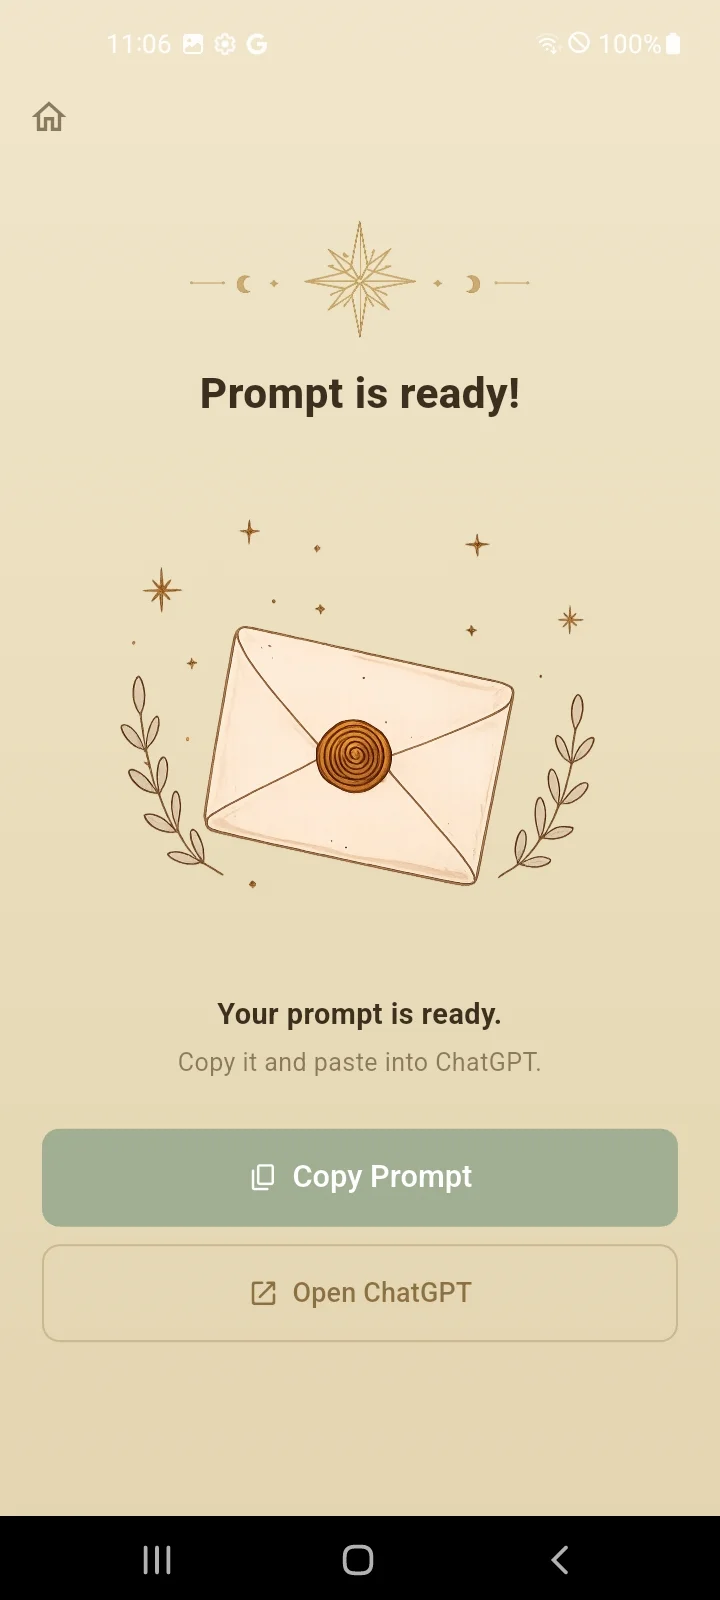
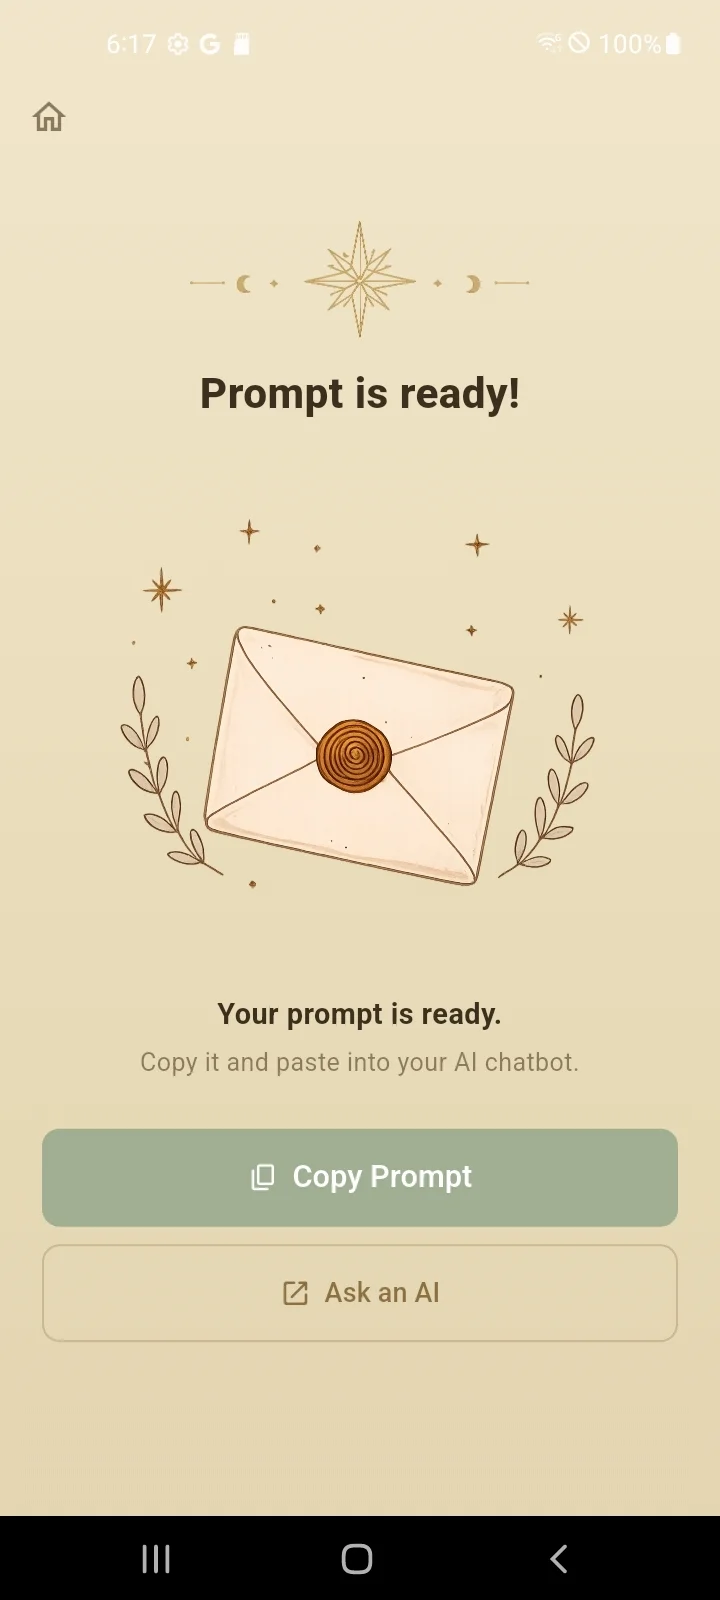
타로요 v1.0.1 반영: ChatGPT 문구→AI 중립 표현, 매뉴얼·처리방침·이미지 갱신 (4개 언어)
Google Play 상표권 신고(OpenAI/CHATGPT) 대응으로 앱이 v1.0.1로 재배포됨에 따라 홈페이지 동기화.
- 매뉴얼 8곳(4개 언어): 'ChatGPT 열기'→'AI에게 물어보기', 섹션5 제목·자동복사 안내·
  비제휴 고지 추가, 카드 확대 화면 스와이프 안내 추가, 버전 1.0.0→1.0.1
- 개인정보처리방침: "ChatGPT 등 외부 서비스"→"외부 AI 서비스"
- 랜딩 페이지: 소개문·주요기능 문구 AI 중립 표현 + 비제휴 고지 1줄, 배너 alt 수정
- 메인 페이지 앱 카드 설명 문구 수정
- 이미지: 대표 배너(태그라인 'ask an AI'), 스크린샷 008(결과 화면 'Ask an AI') WebP 교체
- sitemap lastmod 2026-09-12, CLAUDE.md 타사 AI 서비스명 표기 금지 원칙 추가

Claude-Session: https://claude.ai/code/session_01PxmmiL69nHKMJwTRCjTQR7

diff --git a/apps/tarotyo/manual/ja.html b/apps/tarotyo/manual/ja.html
@@ -94,7 +94,7 @@
         <h2>アプリについて</h2>
         <table class="info-table">
             <tr><th>アプリ名</th><td>タロヨ (TarotYo)</td></tr>
-            <tr><th>バージョン</th><td>1.0.0</td></tr>
+            <tr><th>バージョン</th><td>1.0.1</td></tr>
             <tr><th>開発</th><td>Willee Project</td></tr>
             <tr><th>対応プラットフォーム</th><td>Android</td></tr>
         </table>
@@ -105,9 +105,9 @@
 <section>
     <div class="container">
         <h2>タロヨはどんなアプリですか?</h2>
-        <p>タロヨは、タロットカード78枚を引き、その結果を ChatGPT のような AI が解釈できる<strong>プロンプト(質問文)</strong>に仕上げてくれるツールです。</p>
+        <p>タロヨは、タロットカード78枚を引き、その結果を AI チャットが解釈できる<strong>プロンプト(質問文)</strong>に仕上げてくれるツールです。</p>
         <ul>
-            <li>アプリが直接カードを解釈するわけではありません。解釈は ChatGPT(または他の AI)が手伝います。</li>
+            <li>アプリが直接カードを解釈するわけではありません。解釈はお使いの AI チャットが手伝います。</li>
             <li>決まった答えを示すものではなく、<strong>楽しみと心の安らぎ、考えの整理</strong>のためのコンテンツです。</li>
         </ul>
     </div>
@@ -167,7 +167,7 @@
         <p>完成したプロンプトを受け取ります。</p>
         <ul>
             <li><strong>プロンプトをコピー</strong>: プロンプトをクリップボードにコピーします。</li>
-            <li><strong>ChatGPT を開く</strong>: ChatGPT をブラウザまたはアプリで開きます。</li>
+            <li><strong>AI に聞いてみる</strong>: お好みの AI サービス(ChatGPT・Gemini・Claude から選択)をブラウザまたはアプリで開きます。</li>
         </ul>
         <div class="tip-box">
             <p>画面左上のホームボタンを押すと、いつでも最初に戻ることができます。</p>
@@ -177,14 +177,15 @@
 
 <section>
     <div class="container">
-        <h2>ChatGPT で解釈を受ける</h2>
+        <h2>AI チャットで解釈を受ける</h2>
         <ol>
-            <li>結果画面で<strong>プロンプトをコピー</strong>を押します。</li>
-            <li><strong>ChatGPT を開く</strong>で ChatGPT を開きます。(ログインが必要な場合があります。)</li>
+            <li>結果画面が開くと、プロンプトが自動的にクリップボードにコピーされます。(もう一度コピーするには<strong>プロンプトをコピー</strong>を押します。)</li>
+            <li><strong>AI に聞いてみる</strong>を押して、お好みの AI サービスを開きます。(ログインが必要な場合があります。)</li>
             <li>入力欄に貼り付けて送信すると、カードの解釈を受け取ることができます。</li>
         </ol>
         <div class="tip-box">
-            <p>タロヨはプロンプトを ChatGPT へ自動送信しません。ご自身で貼り付けてご利用ください。</p>
+            <p>タロヨはプロンプトを AI サービスへ自動送信しません。ご自身で貼り付けてご利用ください。</p>
+            <p style="margin-top:8px;">タロヨは特定の AI サービスと提携・後援・承認関係のない独立したアプリであり、記載のサービス名は各所有者の商標です。</p>
         </div>
     </div>
 </section>
@@ -197,7 +198,7 @@
             <li><strong>大アルカナ</strong> 22枚</li>
             <li><strong>小アルカナ</strong> 56枚 (ワンド・カップ・ソード・ペンタクルの4種)</li>
         </ul>
-        <p>カードを押すと大きく表示できます。</p>
+        <p>カードを押すと大きく表示できます。拡大表示中に左右にスワイプすると前後のカードに移動し、画面を押すと閉じます。</p>
     </div>
 </section>
 

diff --git a/apps/tarotyo/manual/ko.html b/apps/tarotyo/manual/ko.html
@@ -94,7 +94,7 @@
         <h2>앱 정보</h2>
         <table class="info-table">
             <tr><th>앱 이름</th><td>타로요 (TarotYo)</td></tr>
-            <tr><th>버전</th><td>1.0.0</td></tr>
+            <tr><th>버전</th><td>1.0.1</td></tr>
             <tr><th>개발</th><td>Willee Project</td></tr>
             <tr><th>지원 플랫폼</th><td>Android</td></tr>
         </table>
@@ -105,9 +105,9 @@
 <section>
     <div class="container">
         <h2>타로요는 어떤 앱인가요?</h2>
-        <p>타로요는 타로 카드 78장을 뽑아, 그 결과를 ChatGPT 같은 AI가 해석할 수 있는 <strong>프롬프트(질문 문장)</strong>로 만들어 주는 도구입니다.</p>
+        <p>타로요는 타로 카드 78장을 뽑아, 그 결과를 AI 챗봇이 해석할 수 있는 <strong>프롬프트(질문 문장)</strong>로 만들어 주는 도구입니다.</p>
         <ul>
-            <li>앱이 직접 카드를 해석하지 않습니다. 해석은 ChatGPT(또는 다른 AI)가 도와줍니다.</li>
+            <li>앱이 직접 카드를 해석하지 않습니다. 해석은 사용자가 선택한 AI 챗봇이 도와줍니다.</li>
             <li>정해진 답을 알려주는 것이 아니라 <strong>재미와 심리적 위안, 생각 정리</strong>를 위한 콘텐츠입니다.</li>
         </ul>
     </div>
@@ -167,7 +167,7 @@
         <p>완성된 프롬프트를 받습니다.</p>
         <ul>
             <li><strong>프롬프트 복사</strong>: 프롬프트를 클립보드에 복사합니다.</li>
-            <li><strong>ChatGPT 열기</strong>: ChatGPT를 브라우저 또는 앱으로 엽니다.</li>
+            <li><strong>AI에게 물어보기</strong>: 원하는 AI 서비스(ChatGPT, Gemini, Claude 중 선택)를 브라우저 또는 앱으로 엽니다.</li>
         </ul>
         <div class="tip-box">
             <p>화면 좌측 상단의 홈 버튼을 누르면 언제든 처음으로 돌아갈 수 있습니다.</p>
@@ -177,14 +177,15 @@
 
 <section>
     <div class="container">
-        <h2>ChatGPT에서 해석 받기</h2>
+        <h2>AI 챗봇에서 해석 받기</h2>
         <ol>
-            <li>결과 화면에서 <strong>프롬프트 복사</strong>를 누릅니다.</li>
-            <li><strong>ChatGPT 열기</strong>로 ChatGPT를 엽니다. (로그인이 필요할 수 있습니다.)</li>
+            <li>결과 화면에 들어오면 프롬프트가 자동으로 클립보드에 복사됩니다. (다시 복사하려면 <strong>프롬프트 복사</strong>를 누르세요.)</li>
+            <li><strong>AI에게 물어보기</strong>를 눌러 원하는 AI 서비스를 엽니다. (로그인이 필요할 수 있습니다.)</li>
             <li>입력창에 붙여넣기 한 뒤 전송하면 카드 해석을 받을 수 있습니다.</li>
         </ol>
         <div class="tip-box">
-            <p>타로요는 프롬프트를 ChatGPT로 자동 전송하지 않습니다. 직접 붙여넣어 사용하세요.</p>
+            <p>타로요는 프롬프트를 AI 서비스로 자동 전송하지 않습니다. 직접 붙여넣어 사용하세요.</p>
+            <p style="margin-top:8px;">타로요는 특정 AI 서비스와 제휴·후원·승인 관계가 없는 독립 앱이며, 언급된 서비스명은 각 소유자의 상표입니다.</p>
         </div>
     </div>
 </section>
@@ -197,7 +198,7 @@
             <li><strong>메이저 아르카나</strong> 22장</li>
             <li><strong>마이너 아르카나</strong> 56장 (지팡이·컵·검·펜타클 4종)</li>
         </ul>
-        <p>카드를 누르면 크게 볼 수 있습니다.</p>
+        <p>카드를 누르면 크게 볼 수 있습니다. 크게 보는 화면에서 좌우로 스와이프하면 앞뒤 카드로 바로 넘어가고, 화면을 누르면 닫힙니다.</p>
     </div>
 </section>
 

diff --git a/apps/tarotyo/manual/en.html b/apps/tarotyo/manual/en.html
@@ -94,7 +94,7 @@
         <h2>App Info</h2>
         <table class="info-table">
             <tr><th>App Name</th><td>TarotYo</td></tr>
-            <tr><th>Version</th><td>1.0.0</td></tr>
+            <tr><th>Version</th><td>1.0.1</td></tr>
             <tr><th>Developer</th><td>Willee Project</td></tr>
             <tr><th>Platforms</th><td>Android</td></tr>
         </table>
@@ -105,9 +105,9 @@
 <section>
     <div class="container">
         <h2>What is TarotYo?</h2>
-        <p>TarotYo is a tool that draws from the 78 tarot cards and turns the result into a <strong>prompt (a question to ask)</strong> that an AI such as ChatGPT can interpret.</p>
+        <p>TarotYo is a tool that draws from the 78 tarot cards and turns the result into a <strong>prompt (a question to ask)</strong> that an AI chatbot can interpret.</p>
         <ul>
-            <li>The app does not interpret the cards itself. ChatGPT (or another AI) helps with the interpretation.</li>
+            <li>The app does not interpret the cards itself. The AI chatbot of your choice helps with the interpretation.</li>
             <li>It is content meant for <strong>fun, emotional comfort, and organizing your thoughts</strong> — not for giving fixed answers.</li>
         </ul>
     </div>
@@ -167,7 +167,7 @@
         <p>You receive the completed prompt.</p>
         <ul>
             <li><strong>Copy Prompt</strong>: Copies the prompt to the clipboard.</li>
-            <li><strong>Open ChatGPT</strong>: Opens ChatGPT in your browser or app.</li>
+            <li><strong>Ask an AI</strong>: Lets you choose an AI service (ChatGPT, Gemini, or Claude) and opens it in your browser or app.</li>
         </ul>
         <div class="tip-box">
             <p>Tap the home button at the top left of the screen to return to the start at any time.</p>
@@ -177,14 +177,15 @@
 
 <section>
     <div class="container">
-        <h2>Getting an Interpretation in ChatGPT</h2>
+        <h2>Getting an Interpretation from an AI Chatbot</h2>
         <ol>
-            <li>On the result screen, tap <strong>Copy Prompt</strong>.</li>
-            <li>Open ChatGPT with <strong>Open ChatGPT</strong>. (You may need to sign in.)</li>
+            <li>When the result screen opens, the prompt is copied to your clipboard automatically. (Tap <strong>Copy Prompt</strong> to copy it again.)</li>
+            <li>Tap <strong>Ask an AI</strong> and choose the AI service you prefer. (You may need to sign in.)</li>
             <li>Paste it into the input field and send it to receive the card interpretation.</li>
         </ol>
         <div class="tip-box">
-            <p>TarotYo does not automatically send the prompt to ChatGPT. Please paste it in yourself.</p>
+            <p>TarotYo does not automatically send the prompt to any AI service. Please paste it in yourself.</p>
+            <p style="margin-top:8px;">TarotYo is an independent app. It is not affiliated with, sponsored by, or endorsed by any AI service provider. Service names mentioned are trademarks of their respective owners.</p>
         </div>
     </div>
 </section>
@@ -197,7 +198,7 @@
             <li><strong>Major Arcana</strong>, 22 cards</li>
             <li><strong>Minor Arcana</strong>, 56 cards (four suits: Wands, Cups, Swords, and Pentacles)</li>
         </ul>
-        <p>Tap a card to see it enlarged.</p>
+        <p>Tap a card to see it enlarged. In the enlarged view, swipe left or right to move to the previous or next card, and tap to close.</p>
     </div>
 </section>
 

diff --git a/apps/tarotyo/manual/zh.html b/apps/tarotyo/manual/zh.html
@@ -94,7 +94,7 @@
         <h2>关于应用</h2>
         <table class="info-table">
             <tr><th>应用名称</th><td>塔罗哟 (TarotYo)</td></tr>
-            <tr><th>版本</th><td>1.0.0</td></tr>
+            <tr><th>版本</th><td>1.0.1</td></tr>
             <tr><th>开发</th><td>Willee Project</td></tr>
             <tr><th>支持平台</th><td>Android</td></tr>
         </table>
@@ -105,9 +105,9 @@
 <section>
     <div class="container">
         <h2>塔罗哟是一款什么样的应用？</h2>
-        <p>塔罗哟会为您抽取 78 张塔罗牌，并将抽牌结果整理成可供 ChatGPT 等 AI 解读的<strong>提示词（问题文本）</strong>。</p>
+        <p>塔罗哟会为您抽取 78 张塔罗牌，并将抽牌结果整理成可供 AI 聊天工具解读的<strong>提示词（问题文本）</strong>。</p>
         <ul>
-            <li>应用本身并不直接解读卡牌。解读由 ChatGPT（或其他 AI）协助完成。</li>
+            <li>应用本身并不直接解读卡牌。解读由您选择的 AI 聊天工具协助完成。</li>
             <li>它并非给出既定答案，而是为了<strong>娱乐、心理慰藉与整理思绪</strong>而设计的内容。</li>
         </ul>
     </div>
@@ -167,7 +167,7 @@
         <p>您将收到生成完成的提示词。</p>
         <ul>
             <li><strong>复制提示词</strong>：将提示词复制到剪贴板。</li>
-            <li><strong>打开 ChatGPT</strong>：通过浏览器或应用打开 ChatGPT。</li>
+            <li><strong>问问 AI</strong>：选择您喜欢的 AI 服务（ChatGPT、Gemini 或 Claude），通过浏览器或应用打开。</li>
         </ul>
         <div class="tip-box">
             <p>点击画面左上角的主页按钮，可随时回到最初。</p>
@@ -177,14 +177,15 @@
 
 <section>
     <div class="container">
-        <h2>在 ChatGPT 中获得解读</h2>
+        <h2>在 AI 聊天工具中获得解读</h2>
         <ol>
-            <li>在结果画面点击<strong>复制提示词</strong>。</li>
-            <li>点击<strong>打开 ChatGPT</strong> 以打开 ChatGPT。（可能需要登录。）</li>
+            <li>进入结果画面后，提示词会自动复制到剪贴板。（如需再次复制，请点击<strong>复制提示词</strong>。）</li>
+            <li>点击<strong>问问 AI</strong>，选择您喜欢的 AI 服务并打开。（可能需要登录。）</li>
             <li>在输入框中粘贴后发送，即可获得卡牌解读。</li>
         </ol>
         <div class="tip-box">
-            <p>塔罗哟不会将提示词自动发送至 ChatGPT。请您亲自粘贴后使用。</p>
+            <p>塔罗哟不会将提示词自动发送至任何 AI 服务。请您亲自粘贴后使用。</p>
+            <p style="margin-top:8px;">塔罗哟是独立应用，与任何 AI 服务提供商均无合作、赞助或授权关系，文中提及的服务名称均为其各自所有者的商标。</p>
         </div>
     </div>
 </section>
@@ -197,7 +198,7 @@
             <li><strong>大阿尔卡纳</strong> 22 张</li>
             <li><strong>小阿尔卡纳</strong> 56 张（权杖、圣杯、宝剑、钱币 4 种）</li>
         </ul>
-        <p>点击卡牌即可放大查看。</p>
+        <p>点击卡牌即可放大查看。放大查看时左右滑动可切换到前后的卡牌，点击画面即可关闭。</p>
     </div>
 </section>
 

diff --git a/apps/tarotyo/ja.html b/apps/tarotyo/ja.html
@@ -93,7 +93,7 @@
         <h1>タロヨ</h1>
         <p>引いたカードで楽しむ AI タロットリーディング</p>
         <div class="graphic-banner">
-            <img src="images/TarotYo_graphic_image_001.webp" alt="TarotYo - Draw your cards, ask ChatGPT">
+            <img src="images/TarotYo_graphic_image_001.webp" alt="TarotYo - Draw your cards, ask an AI">
         </div>
     </div>
 </header>
@@ -110,7 +110,8 @@
                 </div>
             </div>
         </div>
-        <p style="margin-top:20px;">タロヨは、タロットカード78枚の中からカードを引き、その結果を ChatGPT のような AI が解釈できるプロンプト（質問文）に仕上げてくれるアプリです。アプリが直接カードを解釈することはなく、解釈は ChatGPT（または他の AI）が手伝います。決まった答えを示すものではなく、楽しみと心の安らぎ、考えの整理のためのコンテンツです。</p>
+        <p style="margin-top:20px;">タロヨは、タロットカード78枚の中からカードを引き、その結果を AI チャットが解釈できるプロンプト（質問文）に仕上げてくれるアプリです。アプリが直接カードを解釈することはなく、解釈はお使いの AI チャットが手伝います。決まった答えを示すものではなく、楽しみと心の安らぎ、考えの整理のためのコンテンツです。</p>
+        <p style="margin-top:12px; font-size:0.9rem; color:#64748B;">タロヨは特定の AI サービスと提携・後援・承認関係のない独立したアプリであり、AI モデルを内蔵していません。</p>
     </div>
 </section>
 
@@ -140,7 +141,7 @@
             </li>
             <li>
                 <strong>AI プロンプト生成</strong>
-                <span>引いたカードとポジション（位置）の意味を盛り込んだプロンプトを作成し、ChatGPT などの AI に解釈してもらえます。</span>
+                <span>引いたカードとポジション（位置）の意味を盛り込んだプロンプトを作成し、お好みの AI チャットに貼り付けて解釈してもらえます。</span>
             </li>
             <li>
                 <strong>カード一覧</strong>

diff --git a/apps/tarotyo/ko.html b/apps/tarotyo/ko.html
@@ -93,7 +93,7 @@
         <h1>타로요</h1>
         <p>타로 카드로 만나는 AI 타로 리딩</p>
         <div class="graphic-banner">
-            <img src="images/TarotYo_graphic_image_001.webp" alt="TarotYo - Draw your cards, ask ChatGPT">
+            <img src="images/TarotYo_graphic_image_001.webp" alt="TarotYo - Draw your cards, ask an AI">
         </div>
     </div>
 </header>
@@ -110,7 +110,8 @@
                 </div>
             </div>
         </div>
-        <p style="margin-top:20px;">타로요는 타로 카드 78장 중에서 카드를 뽑아, 그 결과를 ChatGPT 같은 AI가 해석할 수 있는 프롬프트(질문 문장)로 만들어 주는 앱입니다. 앱이 직접 카드를 해석하지 않으며, 해석은 ChatGPT(또는 다른 AI)가 도와줍니다. 정해진 답을 알려주는 것이 아니라 재미와 심리적 위안, 생각 정리를 위한 콘텐츠입니다.</p>
+        <p style="margin-top:20px;">타로요는 타로 카드 78장 중에서 카드를 뽑아, 그 결과를 AI 챗봇이 해석할 수 있는 프롬프트(질문 문장)로 만들어 주는 앱입니다. 앱이 직접 카드를 해석하지 않으며, 해석은 사용자가 선택한 AI 챗봇이 도와줍니다. 정해진 답을 알려주는 것이 아니라 재미와 심리적 위안, 생각 정리를 위한 콘텐츠입니다.</p>
+        <p style="margin-top:12px; font-size:0.9rem; color:#64748B;">타로요는 특정 AI 서비스와 제휴·후원·승인 관계가 없는 독립 앱이며, AI 모델을 내장하지 않습니다.</p>
     </div>
 </section>
 
@@ -140,7 +141,7 @@
             </li>
             <li>
                 <strong>AI 프롬프트 생성</strong>
-                <span>뽑은 카드와 포지션(자리)의 의미를 담은 프롬프트를 만들어, ChatGPT 등 AI에게 해석을 받을 수 있습니다.</span>
+                <span>뽑은 카드와 포지션(자리)의 의미를 담은 프롬프트를 만들어, 원하는 AI 챗봇에 붙여넣어 해석을 받을 수 있습니다.</span>
             </li>
             <li>
                 <strong>카드 구경</strong>

diff --git a/apps/tarotyo/en.html b/apps/tarotyo/en.html
@@ -93,7 +93,7 @@
         <h1>TarotYo</h1>
         <p>AI tarot readings from the cards you draw</p>
         <div class="graphic-banner">
-            <img src="images/TarotYo_graphic_image_001.webp" alt="TarotYo - Draw your cards, ask ChatGPT">
+            <img src="images/TarotYo_graphic_image_001.webp" alt="TarotYo - Draw your cards, ask an AI">
         </div>
     </div>
 </header>
@@ -110,7 +110,8 @@
                 </div>
             </div>
         </div>
-        <p style="margin-top:20px;">TarotYo is an app that draws cards from the 78 tarot cards and turns the result into a prompt (a question to ask) that an AI such as ChatGPT can interpret. The app does not interpret the cards itself — ChatGPT (or another AI) helps with the interpretation. It is content meant for fun, emotional comfort, and organizing your thoughts, not for giving fixed answers.</p>
+        <p style="margin-top:20px;">TarotYo is an app that draws cards from the 78 tarot cards and turns the result into a prompt (a question to ask) that an AI chatbot can interpret. The app does not interpret the cards itself — the AI chatbot of your choice helps with the interpretation. It is content meant for fun, emotional comfort, and organizing your thoughts, not for giving fixed answers.</p>
+        <p style="margin-top:12px; font-size:0.9rem; color:#64748B;">TarotYo is an independent app. It is not affiliated with, sponsored by, or endorsed by any AI service provider, and it does not include an AI model.</p>
     </div>
 </section>
 
@@ -140,7 +141,7 @@
             </li>
             <li>
                 <strong>AI Prompt Generation</strong>
-                <span>Create a prompt containing the meanings of your cards and their positions, then get an interpretation from an AI such as ChatGPT.</span>
+                <span>Create a prompt containing the meanings of your cards and their positions, then paste it into the AI chatbot of your choice for an interpretation.</span>
             </li>
             <li>
                 <strong>Browse Cards</strong>

diff --git a/apps/tarotyo/zh.html b/apps/tarotyo/zh.html
@@ -93,7 +93,7 @@
         <h1>塔罗哟</h1>
         <p>用抽取的塔罗牌进行 AI 塔罗解读</p>
         <div class="graphic-banner">
-            <img src="images/TarotYo_graphic_image_001.webp" alt="TarotYo - Draw your cards, ask ChatGPT">
+            <img src="images/TarotYo_graphic_image_001.webp" alt="TarotYo - Draw your cards, ask an AI">
         </div>
     </div>
 </header>
@@ -110,7 +110,8 @@
                 </div>
             </div>
         </div>
-        <p style="margin-top:20px;">塔罗哟是一款会从 78 张塔罗牌中为您抽牌，并将抽牌结果整理成可供 ChatGPT 等 AI 解读的提示词（问题文本）的应用。应用本身并不直接解读卡牌，解读由 ChatGPT（或其他 AI）协助完成。它并非给出既定答案，而是为了娱乐、心理慰藉与整理思绪而设计的内容。</p>
+        <p style="margin-top:20px;">塔罗哟是一款会从 78 张塔罗牌中为您抽牌，并将抽牌结果整理成可供 AI 聊天工具解读的提示词（问题文本）的应用。应用本身并不直接解读卡牌，解读由您选择的 AI 聊天工具协助完成。它并非给出既定答案，而是为了娱乐、心理慰藉与整理思绪而设计的内容。</p>
+        <p style="margin-top:12px; font-size:0.9rem; color:#64748B;">塔罗哟是独立应用，与任何 AI 服务提供商均无合作、赞助或授权关系，也不内置 AI 模型。</p>
     </div>
 </section>
 
@@ -140,7 +141,7 @@
             </li>
             <li>
                 <strong>AI 提示词生成</strong>
-                <span>生成包含卡牌与牌位含义的提示词，让 ChatGPT 等 AI 为您解读。</span>
+                <span>生成包含卡牌与牌位含义的提示词，粘贴到您喜欢的 AI 聊天工具中即可获得解读。</span>
             </li>
             <li>
                 <strong>卡牌一览</strong>

diff --git a/apps/tarotyo/privacy/ja.html b/apps/tarotyo/privacy/ja.html
@@ -121,7 +121,7 @@
             <li>ご利用案内の確認状況</li>
         </ul>
         <h3>3.2 利用者が入力した質問</h3>
-        <p>カード引きの過程で入力した質問は、<strong>端末内部でプロンプトを作成するためにのみ</strong>使用されます。アプリはこれを保存したり外部へ送信したりすることはありません。利用者がご自身でプロンプトを ChatGPT などの外部サービスに貼り付けて使用する場合は、当該サービスのプライバシーポリシーが適用されます。</p>
+        <p>カード引きの過程で入力した質問は、<strong>端末内部でプロンプトを作成するためにのみ</strong>使用されます。アプリはこれを保存したり外部へ送信したりすることはありません。利用者がご自身でプロンプトを外部の AI サービスに貼り付けて使用する場合は、当該サービスのプライバシーポリシーが適用されます。</p>
         <h3>3.3 広告を通じて取り扱われる情報 (Google AdMob)</h3>
         <p>アプリは無料提供のために Google AdMob のバナー広告を使用します。広告の配信・測定・不正クリック防止のために、Google が以下の情報を取り扱う場合があります。</p>
         <ul>

diff --git a/apps/tarotyo/privacy/ko.html b/apps/tarotyo/privacy/ko.html
@@ -121,7 +121,7 @@
             <li>이용 안내 확인 여부</li>
         </ul>
         <h3>3.2 이용자가 입력한 질문</h3>
-        <p>카드뽑기 과정에서 입력한 질문은 <strong>기기 내부에서 프롬프트를 만드는 데에만</strong> 사용됩니다. 앱은 이를 저장하거나 외부로 전송하지 않습니다. 이용자가 직접 프롬프트를 ChatGPT 등 외부 서비스에 붙여넣어 사용할 경우, 해당 서비스의 개인정보 처리방침이 적용됩니다.</p>
+        <p>카드뽑기 과정에서 입력한 질문은 <strong>기기 내부에서 프롬프트를 만드는 데에만</strong> 사용됩니다. 앱은 이를 저장하거나 외부로 전송하지 않습니다. 이용자가 직접 프롬프트를 외부 AI 서비스에 붙여넣어 사용할 경우, 해당 서비스의 개인정보 처리방침이 적용됩니다.</p>
         <h3>3.3 광고를 통해 처리되는 정보 (Google AdMob)</h3>
         <p>앱은 무료 제공을 위해 Google AdMob 배너 광고를 사용합니다. 광고 게재·측정·부정클릭 방지를 위해 Google이 다음과 같은 정보를 처리할 수 있습니다.</p>
         <ul>

diff --git a/apps/tarotyo/privacy/en.html b/apps/tarotyo/privacy/en.html
@@ -121,7 +121,7 @@
             <li>Whether the About guide has been acknowledged</li>
         </ul>
         <h3>3.2 Questions entered by the user</h3>
-        <p>The question entered during the card-drawing process is used <strong>only to create the prompt within the device.</strong> The App does not store it or transmit it externally. If the user pastes the prompt into an external service such as ChatGPT and uses it themselves, that service's privacy policy applies.</p>
+        <p>The question entered during the card-drawing process is used <strong>only to create the prompt within the device.</strong> The App does not store it or transmit it externally. If the user pastes the prompt into an external AI service and uses it themselves, that service's privacy policy applies.</p>
         <h3>3.3 Information processed through advertising (Google AdMob)</h3>
         <p>To provide the App free of charge, the App uses Google AdMob banner ads. To serve and measure ads and to prevent click fraud, Google may process the following information.</p>
         <ul>

diff --git a/ja/index.html b/ja/index.html
@@ -143,7 +143,7 @@
                 <img src="/apps/tarotyo/images/app_icon.png" alt="タロヨ" style="width:60px; height:60px; border-radius:12px; flex-shrink:0;">
                 <div>
                     <h3><a href="/apps/tarotyo/ja.html">タロヨ</a></h3>
-                    <p>タロットカード78枚を引き、ChatGPTなどのAIが解釈できるプロンプトを作成するタロットリーディングアプリ。5種類のスプレッド、カード一覧、多言語対応。</p>
+                    <p>タロットカード78枚を引き、AIチャットが解釈できるプロンプトを作成するタロットリーディングアプリ。5種類のスプレッド、カード一覧、多言語対応。</p>
                     <div style="margin-top:8px;"><a href="https://play.google.com/store/apps/details?id=net.willee.tarotyo" target="_blank" rel="noopener" class="badge" style="text-decoration:none;color:#fff;">Android (Google Play)</a></div>
                 </div>
             </li>
